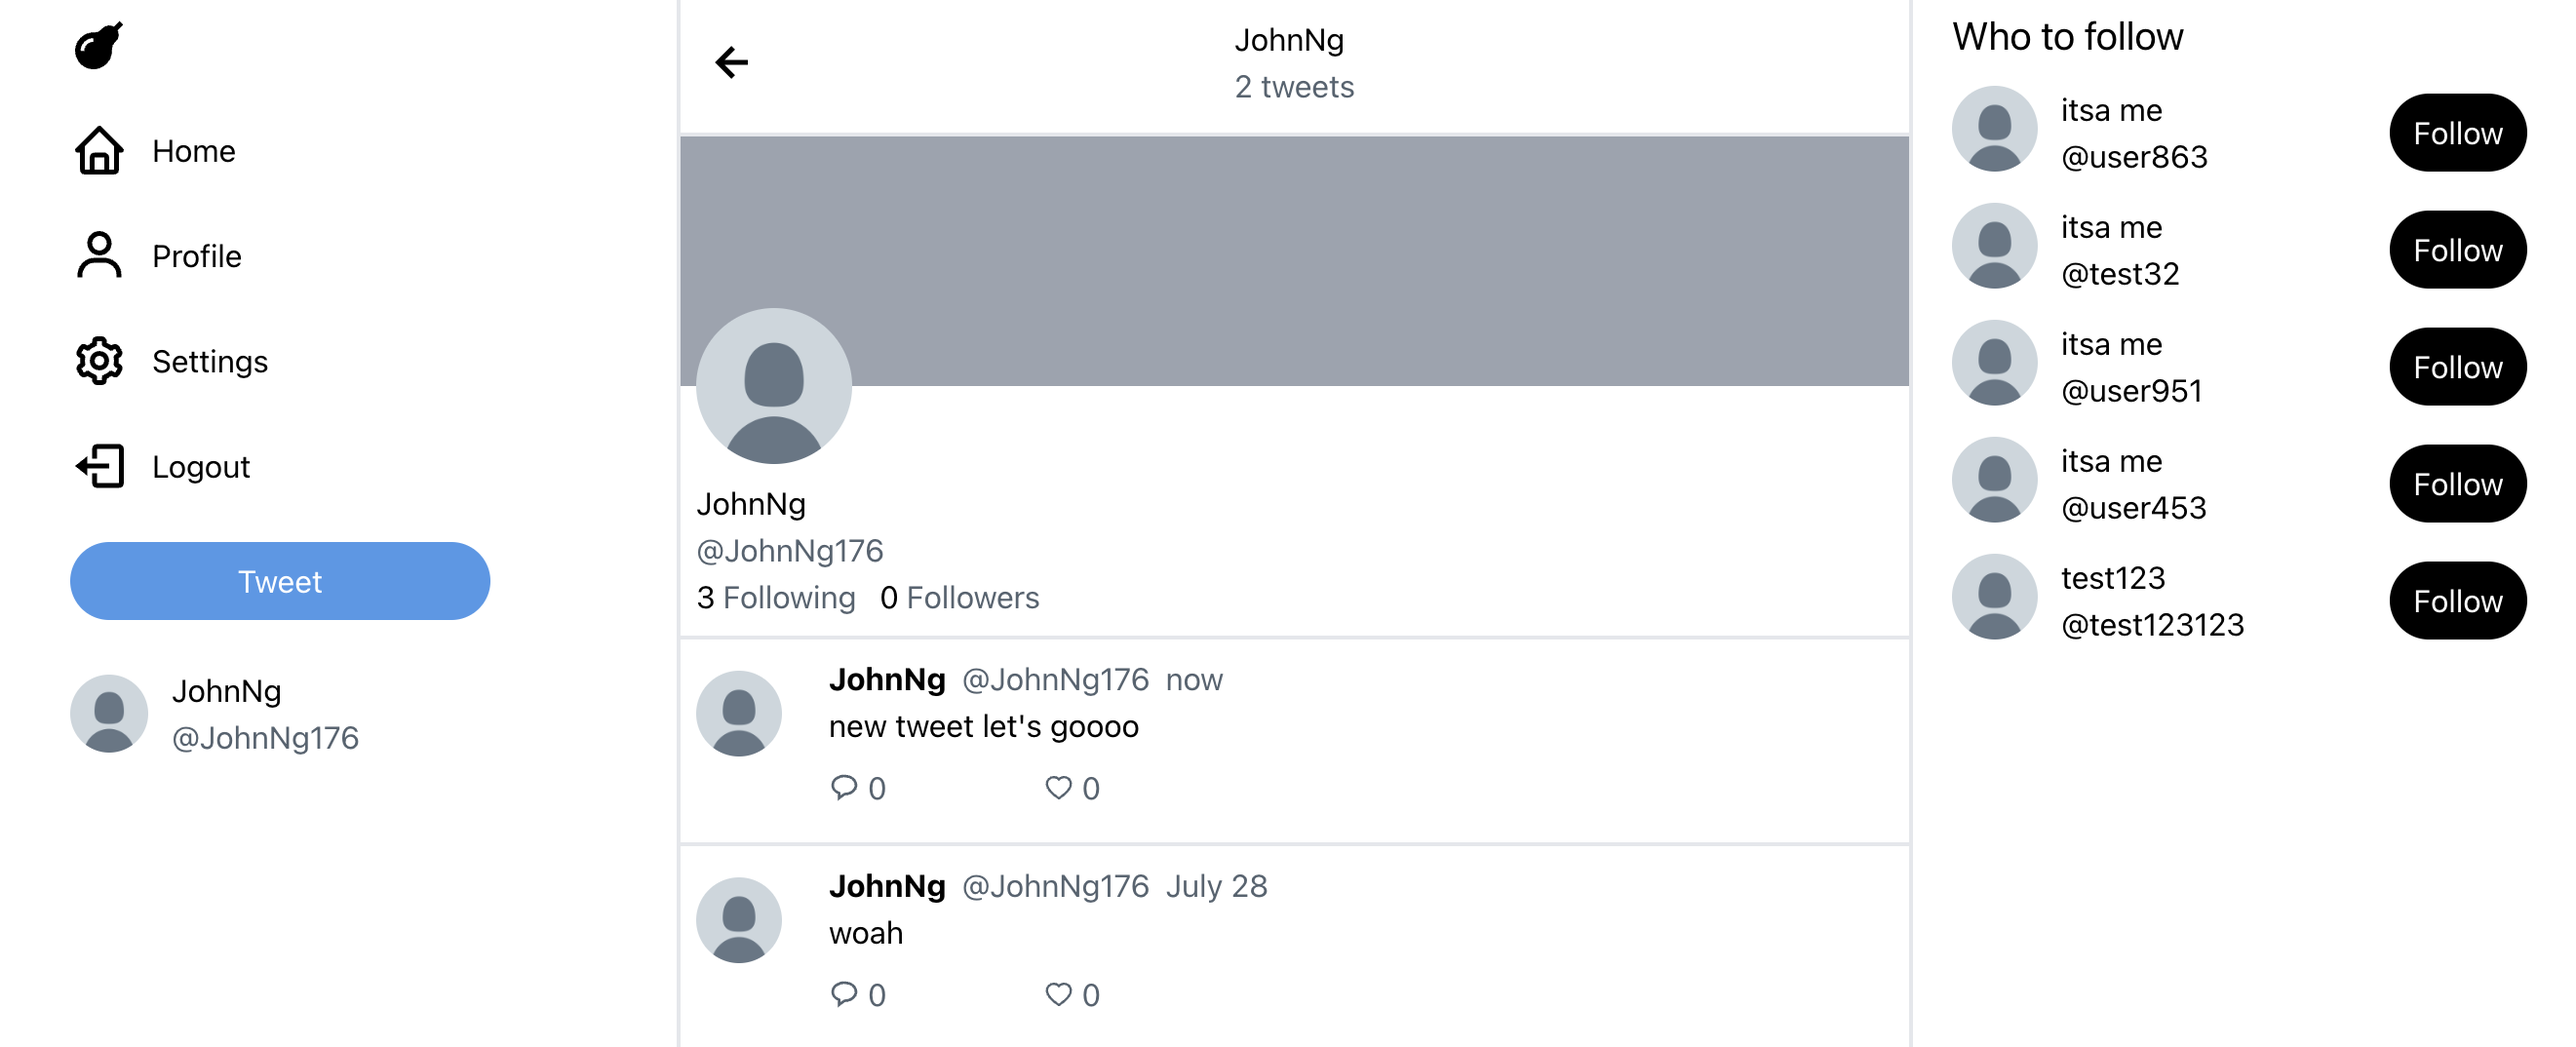
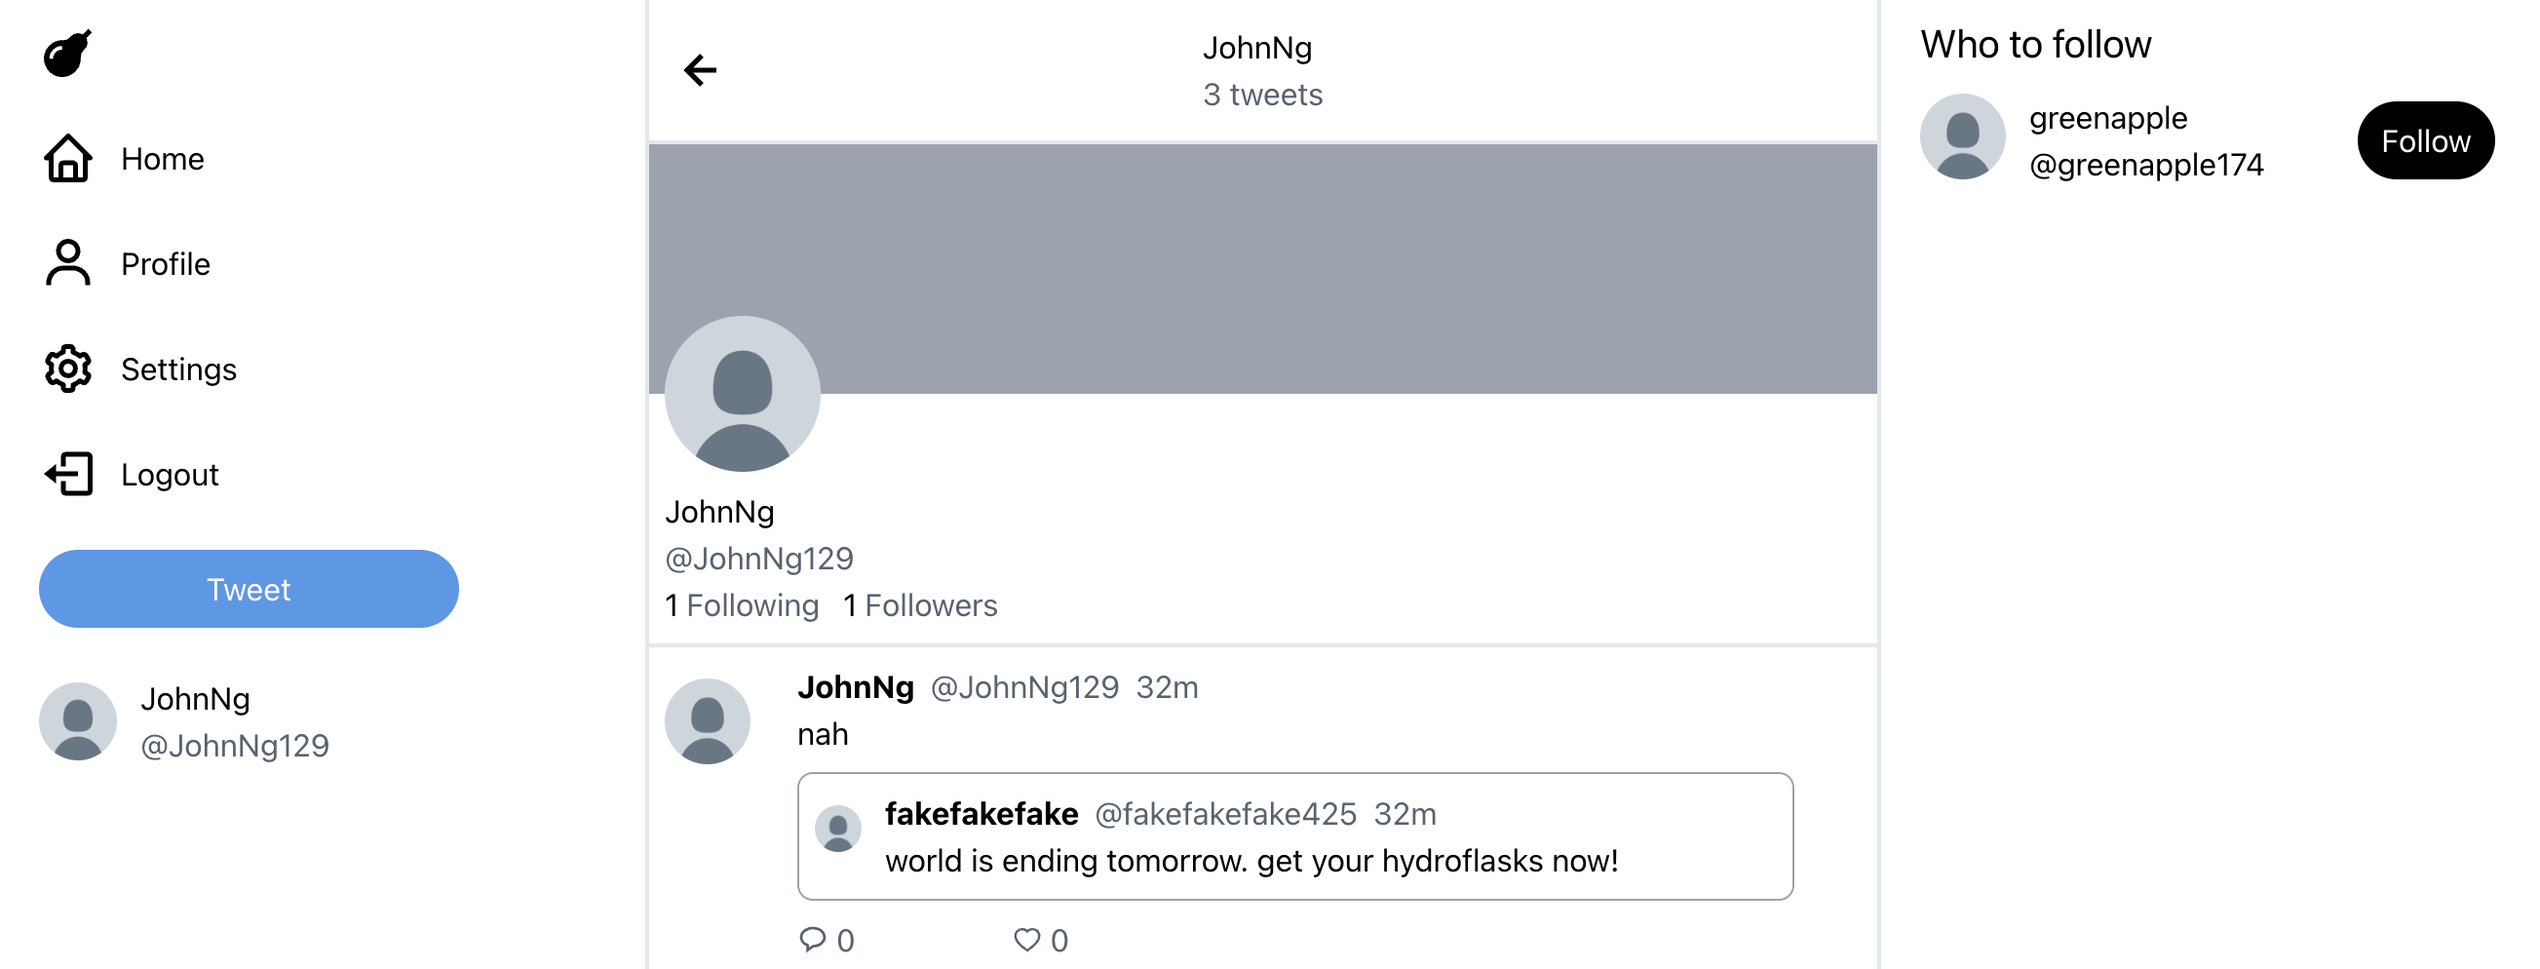
fix profile

diff --git a/frontend/src/components/ReplyRegular.tsx b/frontend/src/components/ReplyRegular.tsx
@@ -64,10 +64,10 @@ const ReplyRegular = ({
                             <Link to={`/${parentTweet.user.handle}`} onClick={(e) => e.stopPropagation()}>
                                 <div className="flex space-x-2">
                                     <div className="font-bold max-w-3/5 truncate">
-                                        {tweet.user.username}
+                                        {parentTweet.user.username}
                                     </div>
                                     <div className="text-twitter-gray max-w-1/5 truncate">
-                                        @{tweet.user.handle}
+                                        @{parentTweet.user.handle}
                                     </div>
                                     <div className="text-twitter-gray w-1/5 truncate">
                                         {dateDiffPretty(new Date(), new Date(tweet.time))}
